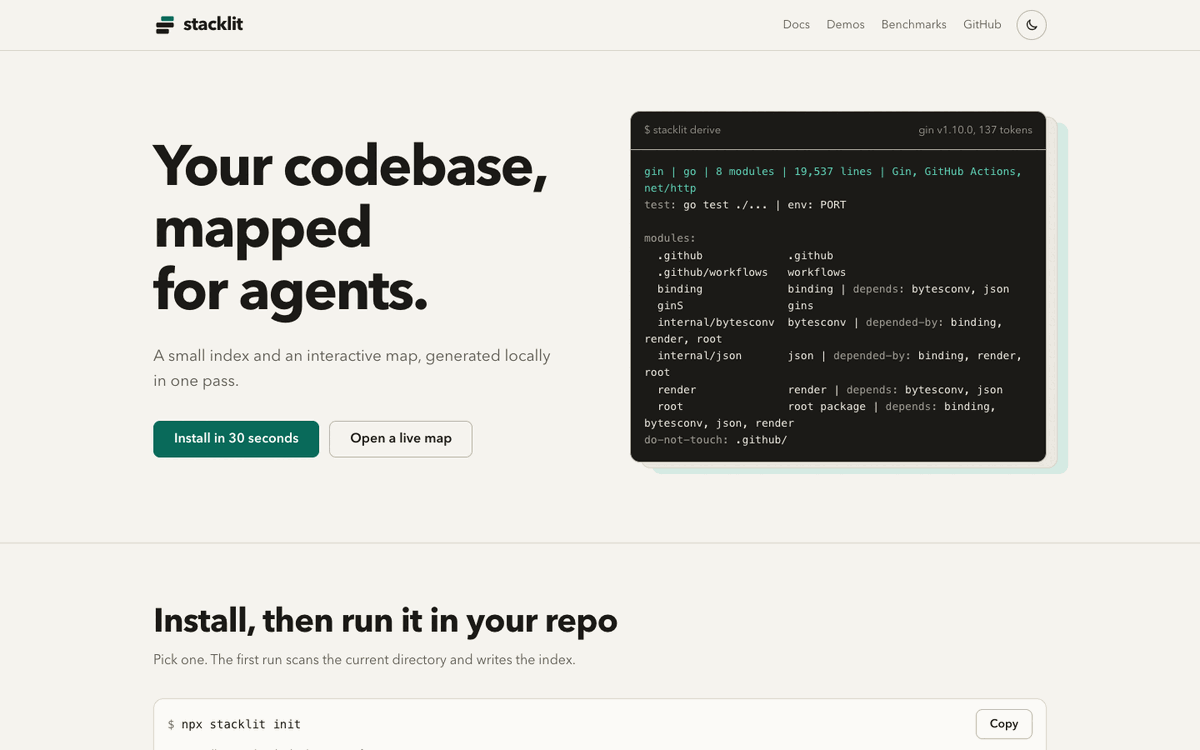
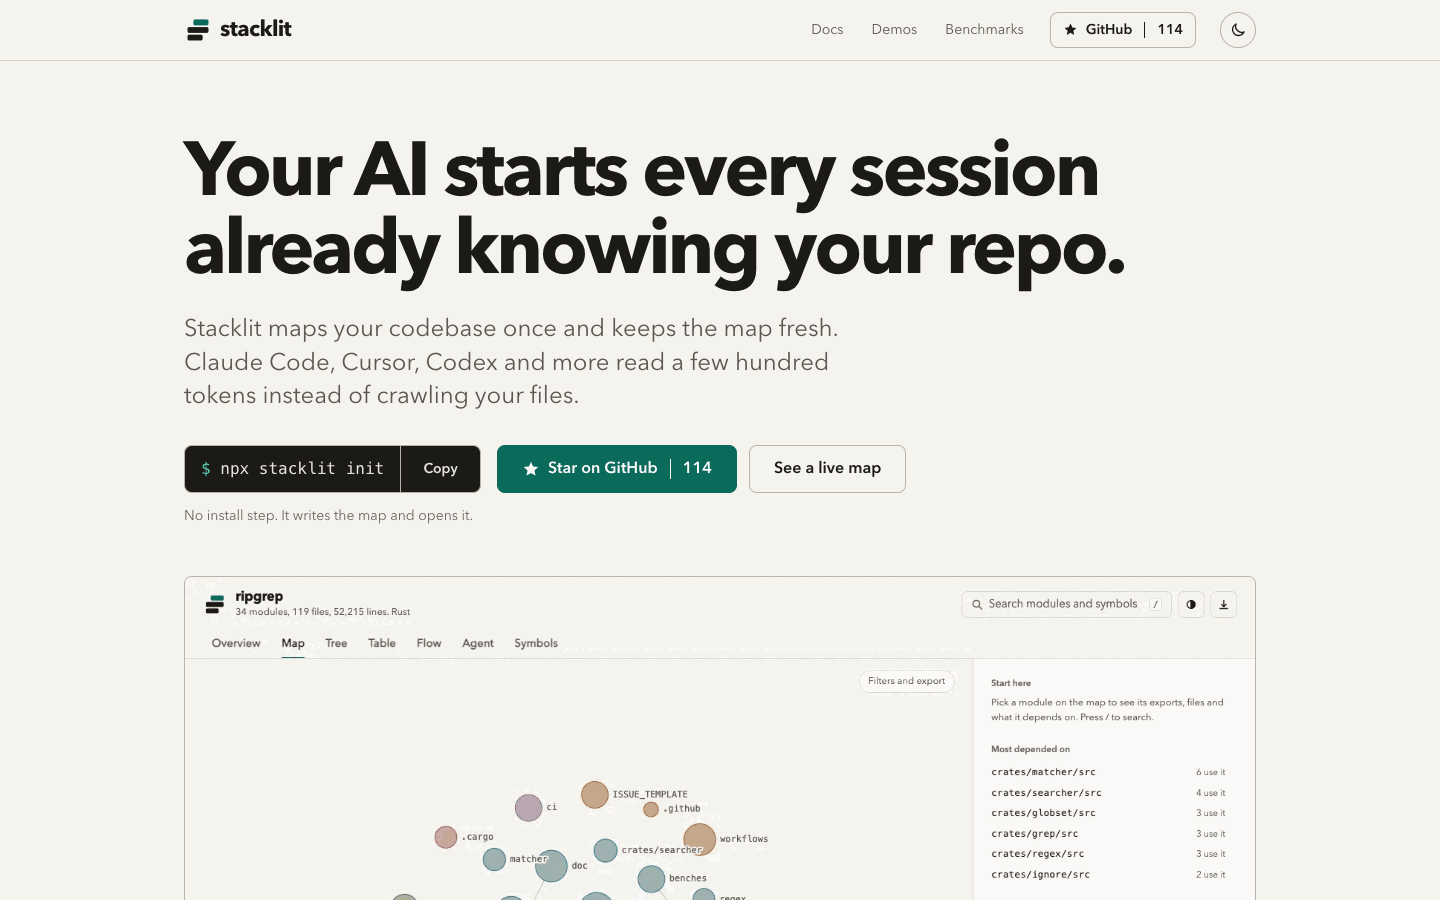
feat: lint fixes, refreshed social preview and screenshots (#71)

diff --git a/site/src/styles/global.css b/site/src/styles/global.css
@@ -56,6 +56,7 @@
   --term-text: #ece9df;
   --term-dim: #a29e92;
   --term-accent: #5fd0b5;
+  --copy-hover: #34322b;
 }
 @media (prefers-color-scheme: dark) {
   :root:not([data-theme="light"]) {
@@ -190,7 +191,7 @@ code, kbd, pre { font-family: var(--font-mono); }
 .install-box .p, .cmd .p { color: var(--term-accent); }
 .copy { display: none; flex: none; min-width: 5rem; padding: 0 var(--s-4); border: 0; border-left: 1px solid var(--line-strong); border-radius: 0; background: transparent; color: var(--term-text); cursor: pointer; font-size: var(--fs-sm); font-weight: 600; transition: background-color var(--dur-1) var(--ease); }
 .js .copy { display: inline-flex; align-items: center; justify-content: center; }
-.copy:hover { background: rgb(255 255 255 / 0.1); }
+.copy:hover { background: var(--copy-hover); }
 .copy:focus-visible { outline-offset: -3px; }
 .copy[data-state="done"] { color: var(--term-accent); }
 
@@ -287,7 +288,7 @@ code, kbd, pre { font-family: var(--font-mono); }
 /* Proof */
 .points { margin: 0; padding-left: 1.2em; max-width: 40rem; }
 .points li { margin-top: var(--s-3); }
-.ab { padding-left: var(--s-4); border-left: 3px solid var(--accent); }
+.ab { padding: var(--s-4); border: 1px solid var(--line-strong); border-radius: var(--r-2); }
 .ab h3 { font-size: var(--fs-lg); }
 .ab p { margin-top: var(--s-1); color: var(--muted); }
 
